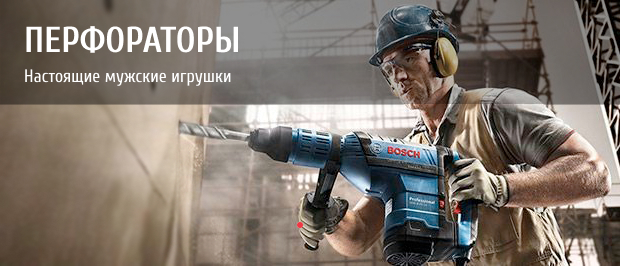
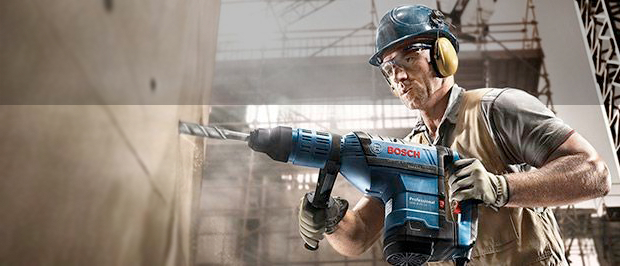
добавлено изображение в слайдер index.html

diff --git a/index.html b/index.html
@@ -64,7 +64,7 @@
     	    <ul>
     	    	<li>
     	    		<div>
-    	    			<img src="">
+    	    			<img src="img/top-perf.jpg">
     			<p>Перфораторы</p>
     			<span>Настоящие мужские игрушки</span>
                      </div>
